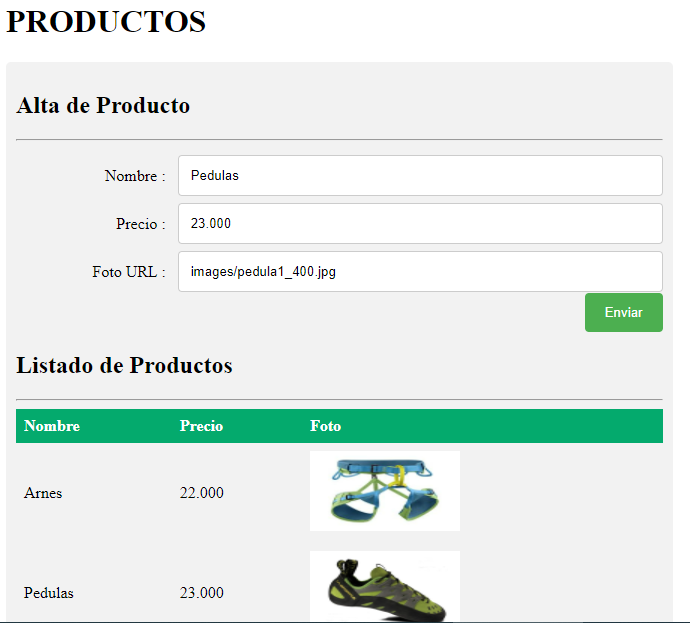
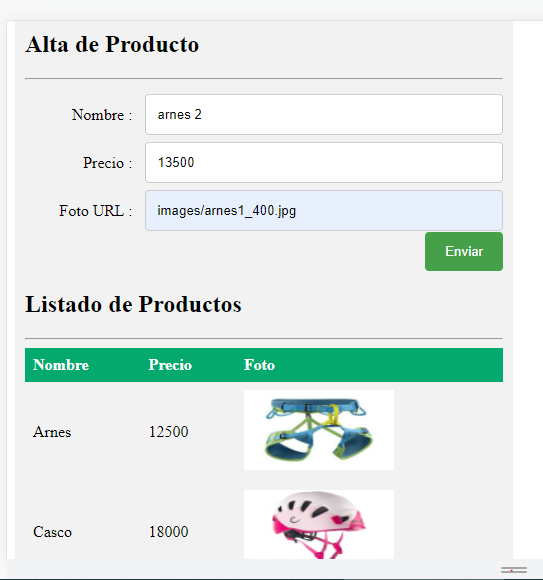
WEBSOCKETS version handlebars del lado del servidor

diff --git a/desafio_clase10/modules/cl_Producto.js b/desafio_clase10/modules/cl_Producto.js
@@ -1,0 +1,111 @@
+
+//Clase CONTENEDOR que recibe el nombre del archivo
+module.exports = class cl_Producto {
+
+    //array con los productos 
+    static #arrProductos = [
+        {
+            id: 1,
+            title: "Arnes",
+            price: 12500,
+            thumbnail: "/images/arnes1_400.jpg",
+        },
+        {
+            id: 2,
+            title: "Casco",
+            price: 18000,
+            thumbnail: "/images/casco2_400.jpg",
+        },
+        {
+            id: 3,
+            title: "Pédulas",
+            price: 23000,
+            thumbnail: "/images/pedula1_400.jpg",
+        },
+    ];
+
+    //obtengo el máximo id (lo uso en setProducto)
+    #getMaxId(){
+        return cl_Producto.#arrProductos.length === 0 ? 0 : cl_Producto.#arrProductos.reduce((acum,proximo)=> acum>proximo.id? acum:proximo.id,0);
+    }
+
+    //devuelve todos los productos
+    getProductos(){
+        return  cl_Producto.#arrProductos.length === 0 ? null : cl_Producto.#arrProductos;
+    }
+
+    //devuelve un producto según el id ingresado como parametro
+    getProductoById(idProducto){
+        return idProducto != undefined && typeof(idProducto) === "number" ? cl_Producto.#arrProductos.find(producto=> producto.id === idProducto): null;
+    }
+
+    //recibe y agrega un producto, y lo devuelve con su id asignado
+    setProducto(objProductoIN){
+
+        if(objProductoIN.title != undefined && 
+            (objProductoIN.price != undefined && parseInt(objProductoIN.price) != NaN) && 
+            (objProductoIN.thumbnail != undefined && objProductoIN.thumbnail != "")){
+
+            let id = this.#getMaxId(); //obtengo el máximo id del array de productos
+            id++; //sumo en 1 para asginar al nuevo producto            
+            objProductoIN.id = id; //asigno id al nuevo producto
+            
+            //armo el objetoProducto a agregar y devolver con el nuevo id asignado
+            let objProductoOUT =  {   
+                id:objProductoIN.id,
+                title:objProductoIN.title,
+                price:objProductoIN.price,
+                thumbnail:objProductoIN.thumbnail,
+            };
+            cl_Producto.#arrProductos.push(objProductoOUT); // lo agrego a mi arrayProductos
+            return objProductoOUT; // lo devuelvo con el nuevo id asignado
+        }else{
+            return null;
+        }
+    }
+
+    updateProducto(idProducto,objProducto){
+
+        if(objProducto.title != undefined && 
+            (objProducto.thumbnail != undefined && objProducto.thumbnail != "") && 
+            (objProducto.price != undefined && parseInt(objProducto.price) != NaN) && 
+            (idProducto != undefined && typeof(idProducto) === "number")){
+            
+            //busco la posicion en el array del producto a modificar
+            let posicion = cl_Producto.#arrProductos.findIndex(producto=> producto.id === idProducto);
+            
+            //si la posicion existe , actualizo
+            if( posicion > -1){
+                //borro producto actual (no modificado)
+                cl_Producto.#arrProductos.splice(posicion,1);
+                //agrego producto modificado
+                cl_Producto.#arrProductos.push(
+                    {   
+                        id:objProducto.id,
+                        title:objProducto.title,
+                        price:objProducto.price,
+                        thumbnail:objProducto.thumbnail,
+                    }
+                );
+                return true; // retorno OK la actualizacion
+            }
+        }
+        return false; // retorno false si no se cumple nada de lo anterior (ambos if)
+    }
+
+    //elimina un producto según su id.
+    deleteProducto(idProducto){
+
+        if(idProducto != undefined && typeof(idProducto) === "number"){
+            //obtengo la posicion en el arrayProductos del id producto ingresado como parametro
+            let posicion = cl_Producto.#arrProductos.findIndex(element=> element.id === idProducto);
+            
+            if( posicion > -1){
+                cl_Producto.#arrProductos.splice(posicion,1); //borro producto
+                return true; // retorno OK la eliminacion
+            }
+        }
+        return false; // retorno false si no se cumple nada de lo anterior (ambos if)
+    }
+}
+
